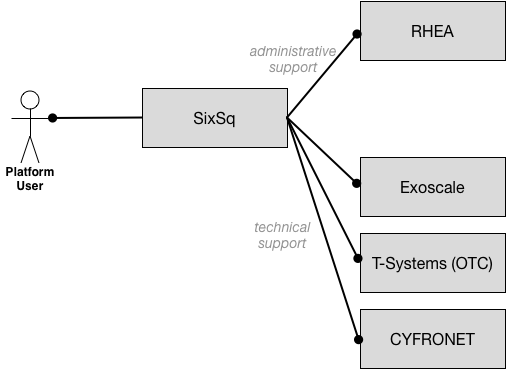
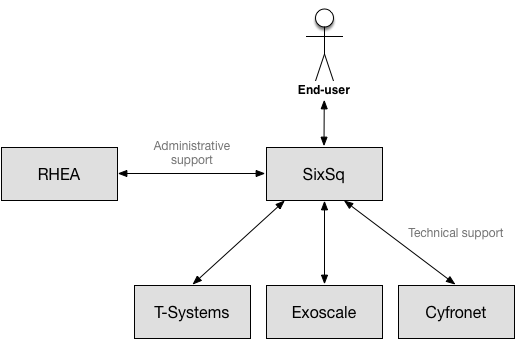
add more information from proposal

diff --git a/docs/introduction.rst b/docs/introduction.rst
@@ -51,9 +51,130 @@ pricing that can be offered by commercial providers.
 Architectural Overview
 ----------------------
 
+The hybrid cloud platform coming from the design phase provides
+cost-effective access to large-scale compute and storage resources
+from multiple providers. Aside from satisfying the detailed
+requirements of the Buyers Group, our design objectives are to create
+a solution that is:
+
+1. Integrated,
+2. Realistic,
+3. Minimally Intrusive,
+4. Scalable (i.e. ~400’000 cores),
+5. Managed (delivered “as a Service”), and
+6. Sustainable.
+
+The solution brings together three commercial services, an
+authentication infrastructure that supports federated identities, and
+a data management infrastructure that can handle the large data sets
+of the Buyers Group. All the components are based on open source
+software released under the Apache 2.0 license, which allows liberal
+academic and commercial reuse.
+
+As described in D1.2 (Design Phase), the existing components together
+satisfy most requirements of the Buyers Group. Areas where work is
+needed to unify, to enhance, to harden, and to validate the proposed
+solution have been identified during the Design Phase. These "gaps"
+will form the focus of the R&D work of the prototype phase.
+
+.. figure:: images/architecture-overview.png
+   :alt: Support Desk Diagram
+   :width: 50%
+   :align: center
+
+Further, the service will be deployed incrementally, such that scale
+testing can start on stable components as early as possible to detect
+issues and develop solutions to address these.  Our solution includes
+the following main components:
+
+- Authentication (KeyCloak): federates external identity providers,
+  allowing users to use their “home” credentials to access the hybrid
+  cloud platform
+- Orchestration (Nuvla): allows users to manage the full lifecycle of
+  cloud applications with a high degree of automation
+- Data Management (Onedata + GlusterFS/S3): allows users to access and
+  to manage large datasets hosted in hybrid cloud infrastructures
+  and/or at a Buyers Group organization with minimum intrusion
+- Networking (peering with GÉANT): allows access to all the platform
+  services from anywhere with enhanced access from sites connected to
+  GÉANT
+- Cloud Resources (OTC + Exoscale): IaaS and HPC computing and storage
+  services accessible from the hybrid cloud platform
+- Dashboard (Nuvla): provides an overview of Users’ current
+  activities, resource utilisation, and costs.
+
+The integration of these key components was demonstrated during the
+design phase. The focus of the prototype phase is therefore to close
+the gap on the identified missing features and focus on scaling. To
+facilitate testing the system at scale, we will also work with buyers
+to connect their data sources to the data management solution via a
+Oneprovider service deployed near the source. This will allow users
+from buyer organisations to test their applications, in the clouds, at
+scale, with their own data.
+
+Development during this phase will be incremental, such that we can
+start testing early, to provide buyers with early access to the
+functionality so that they can provide constructive feedback.
+
+
 Actors
 ------
 
+The primary users of the hybrid cloud platform will be researchers who
+want to analyze large datasets. However, there are many other actors
+involved to make the platform useful. To be as exact as possible in
+the component descriptions and in the “user stories” that will drive
+the implementation and testing of the platform, we have identified the
+full set of actors in Table 1.
+
+Researcher
+    A person from a Buyers Group organization who analyzes scientific
+    data by deploying instances of cloud applications (defined by
+    Application Developers) for himself.
+
+Application Operator
+    A person from a Buyers Group organization who deploys and manages
+    instances of cloud applications (defined by Application
+    Developers) for others.
+
+Data Service Operator
+    A person from a Buyers Group organization or the Consortium who is
+    responsible for deploying and maintaining the data services
+    specific to an organization, project, or experiment.
+
+Application Developer
+    A person from a Buyers Group organization, Consortium or other
+    organization who develops generalized software or services for use
+    by others that use the platform's services, including data sets
+    maintained by a Buyers Group organization. Defines (scalable)
+    applications on the platform that can be deployed by a Researcher
+    or Application Operator.
+
+Data Coordinator
+    A person from a Buyers Group organization who is responsible for
+    managing the data (publishing, replicating, validating, archiving,
+    etc.) for a specific organization, project, or experiment.
+
+Account Coordinator
+    A person from a Buyers Group organization who is responsible for
+    managing the accounts (including credentials and quotas),
+    monitoring resource utilization, and tracking costs.
+
+Platform User or User
+    A Researcher, Application Operator, Data Service Operator,
+    Application Developer, Data Coordinator, Account Coordinator.
+
+Broker Service Provider
+    The organization that provides the cloud application management
+    and brokering services for the platform, i.e. Nuvla.
+
+Service Provider
+    A "broker service provider" or "IaaS service provider".
+
+Consortium
+    The organizations that together provide the hybrid cloud platform for HNSciCloud.
+
+    
 Scope and Coverage
 ------------------
 
